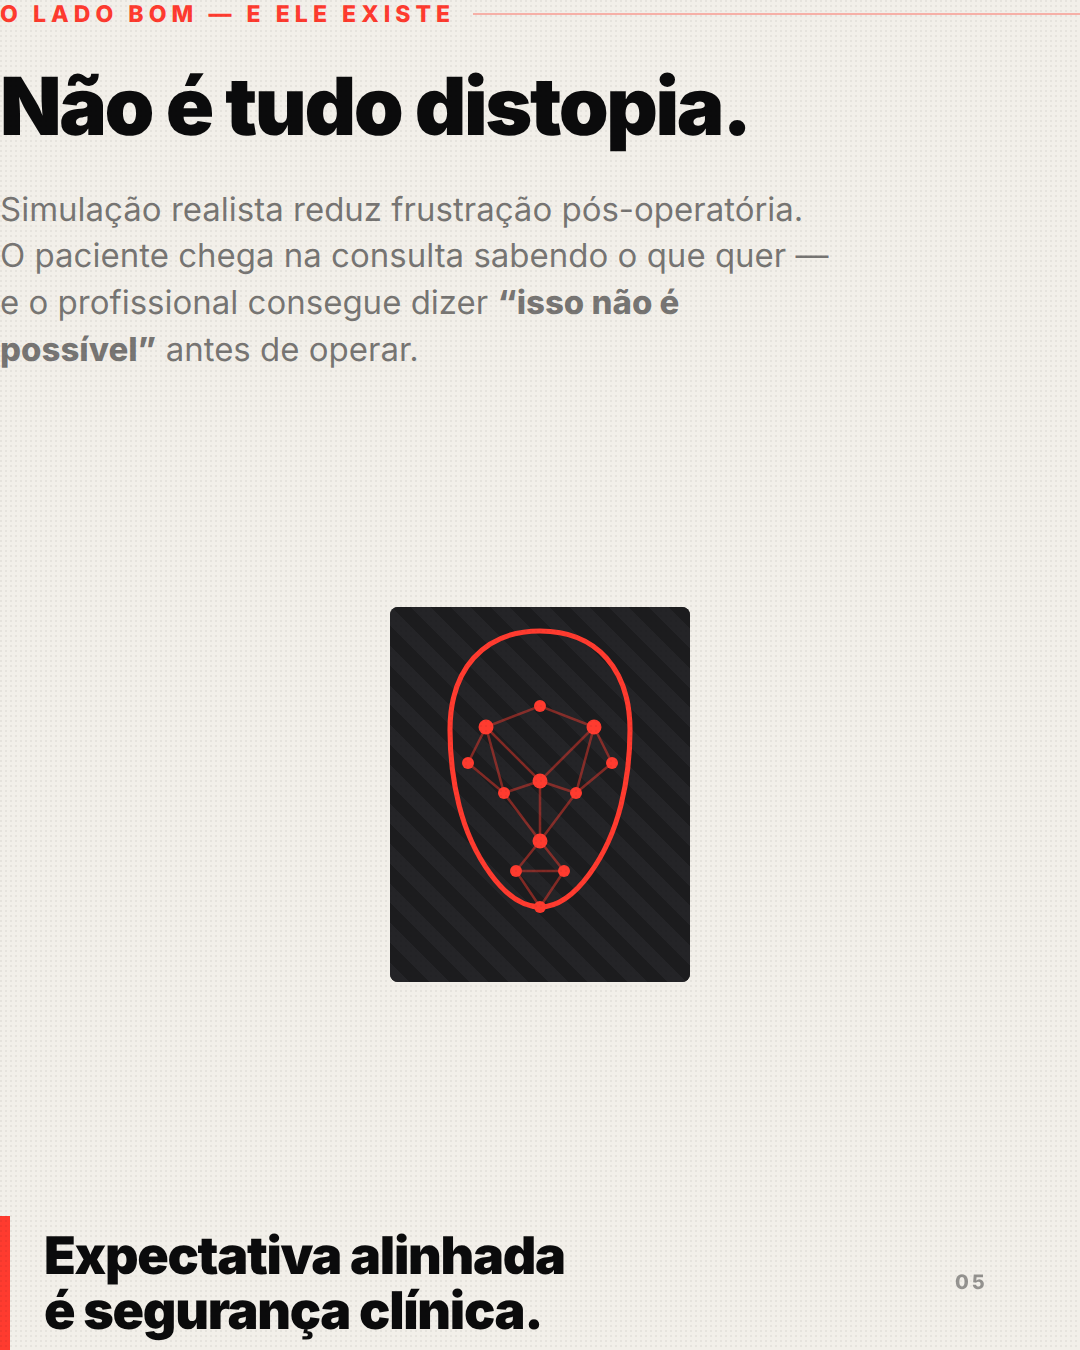
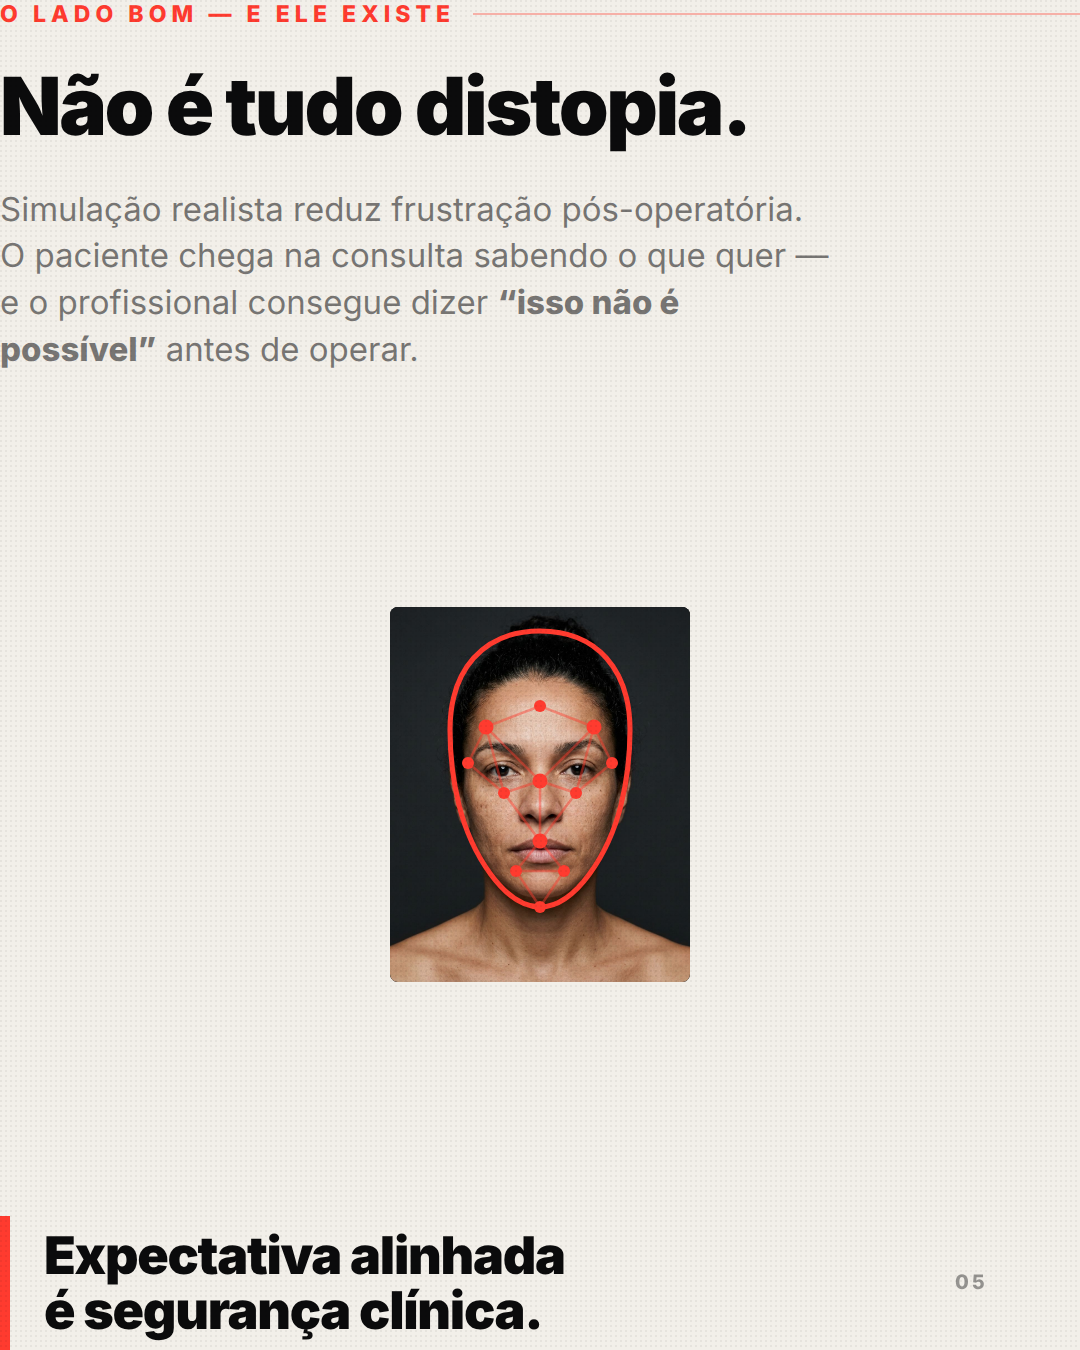
content: fecha a versao fotografica do carrossel com os retratos gerados
Adiciona capa.jpg, raw.jpg e retocada.jpg e re-exporta os 10 slides com
fotografia no lugar do glifo vetorial.

A capa e uma imagem unica ja dividida ao meio: duas geracoes independentes
produzem duas mulheres diferentes, e a capa corta exatamente no centro.

O slide 2 passa a consumir as duas metades dessa mesma imagem (capaL/capaR)
em vez de raw/retocada — na primeira montagem os paineis "SELFIE" e "VOCE"
eram pessoas distintas, o que anulava a leitura de antes/depois.

Slides 5 e 6 seguem com rosto inteiro: recortar pela metade nessas duas
composicoes deixava de ler como rosto.

Claude-Session: https://claude.ai/code/session_01QL9vhZZu3SsoqbmAEg7ciV

Changed region(s): [[0.3667, 0.4356, 0.6417, 0.7467]]

diff --git a/content/slides-ia-embelezamento/_fonte/slides-fotos.html b/content/slides-ia-embelezamento/_fonte/slides-fotos.html
@@ -29,6 +29,9 @@ body{background:#555;font-family:'Inter',system-ui,sans-serif;-webkit-font-smoot
 .port.raw{background-image:url("fotos/raw.jpg"),var(--ph)}
 .port.fix{background-image:url("fotos/retocada.jpg"),var(--ph)}
 .port.capa{background-image:url("fotos/capa.jpg"),var(--ph)}
+.port.capaL,.port.capaR{background-image:url("fotos/capa.jpg"),var(--ph);background-size:200% auto}
+.port.capaL{background-position:left 22%}
+.port.capaR{background-position:right 22%}
 .photo{padding:0}
 .photo .inner{position:relative;z-index:3;padding:var(--pad);height:100%;display:flex;flex-direction:column}
 .stage{position:absolute;inset:0;z-index:1;overflow:hidden}
@@ -223,11 +226,11 @@ h2{font-weight:900;letter-spacing:-.03em;line-height:1.02}
     <div><b class="acct">8 seg</b></div><div><b>de graça</b></div><div><b>no celular</b></div>
   </div>
   <div class="steps">
-    <div class="step"><div class="port raw"></div><div class="veil"></div><span>SELFIE</span></div>
+    <div class="step"><div class="port capaL"></div><div class="veil"></div><span>SELFIE</span></div>
     <div class="arrowmid">→</div>
-    <div class="step"><div class="port raw"></div><div class="veil"></div><svg class="scan" viewBox="0 0 100 112" preserveAspectRatio="none"><g stroke="#FF3B2F" stroke-width=".7" opacity=".95"><line x1="0" y1="38" x2="100" y2="38"/><line x1="0" y1="56" x2="100" y2="56"/><line x1="0" y1="74" x2="100" y2="74"/></g></svg><svg class="scan" viewBox="0 0 100 112"><g style="color:#FF3B2F"><use href="#mesh"/></g></svg><span>IA</span></div>
+    <div class="step"><div class="port capaL"></div><div class="veil"></div><svg class="scan" viewBox="0 0 100 112" preserveAspectRatio="none"><g stroke="#FF3B2F" stroke-width=".7" opacity=".95"><line x1="0" y1="38" x2="100" y2="38"/><line x1="0" y1="56" x2="100" y2="56"/><line x1="0" y1="74" x2="100" y2="74"/></g></svg><svg class="scan" viewBox="0 0 100 112"><g style="color:#FF3B2F"><use href="#mesh"/></g></svg><span>IA</span></div>
     <div class="arrowmid">→</div>
-    <div class="step"><div class="port fix"></div><div class="veil"></div><span>“VOCÊ”</span></div>
+    <div class="step"><div class="port capaR"></div><div class="veil"></div><span>“VOCÊ”</span></div>
   </div>
   <div class="num">02</div>
 </div>
